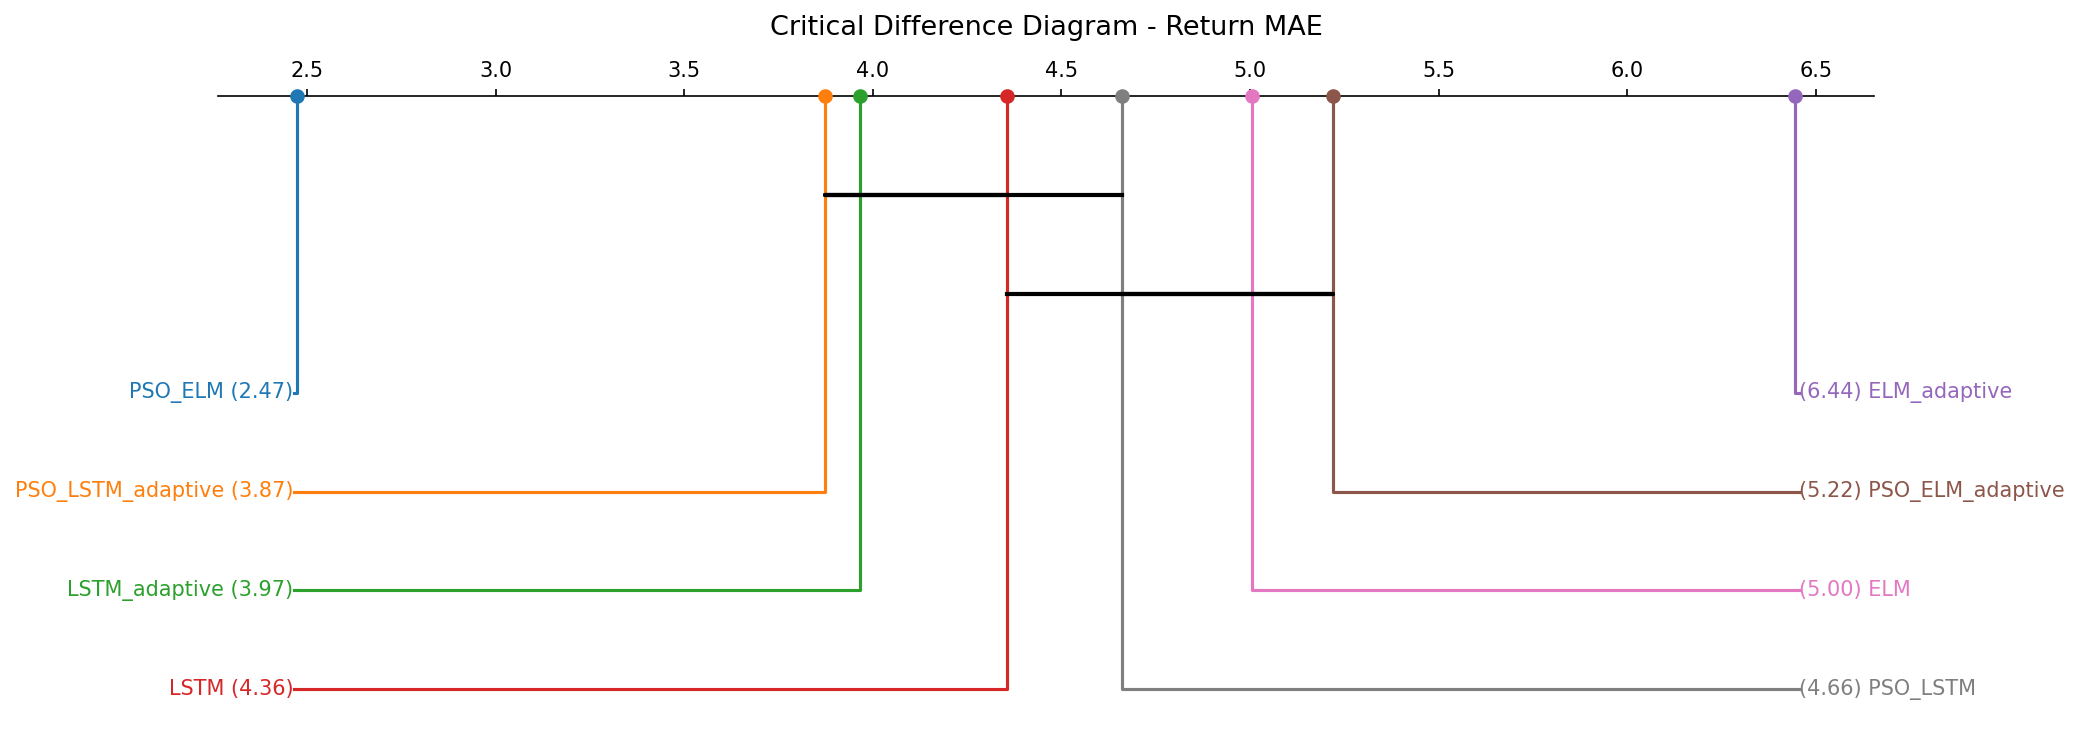
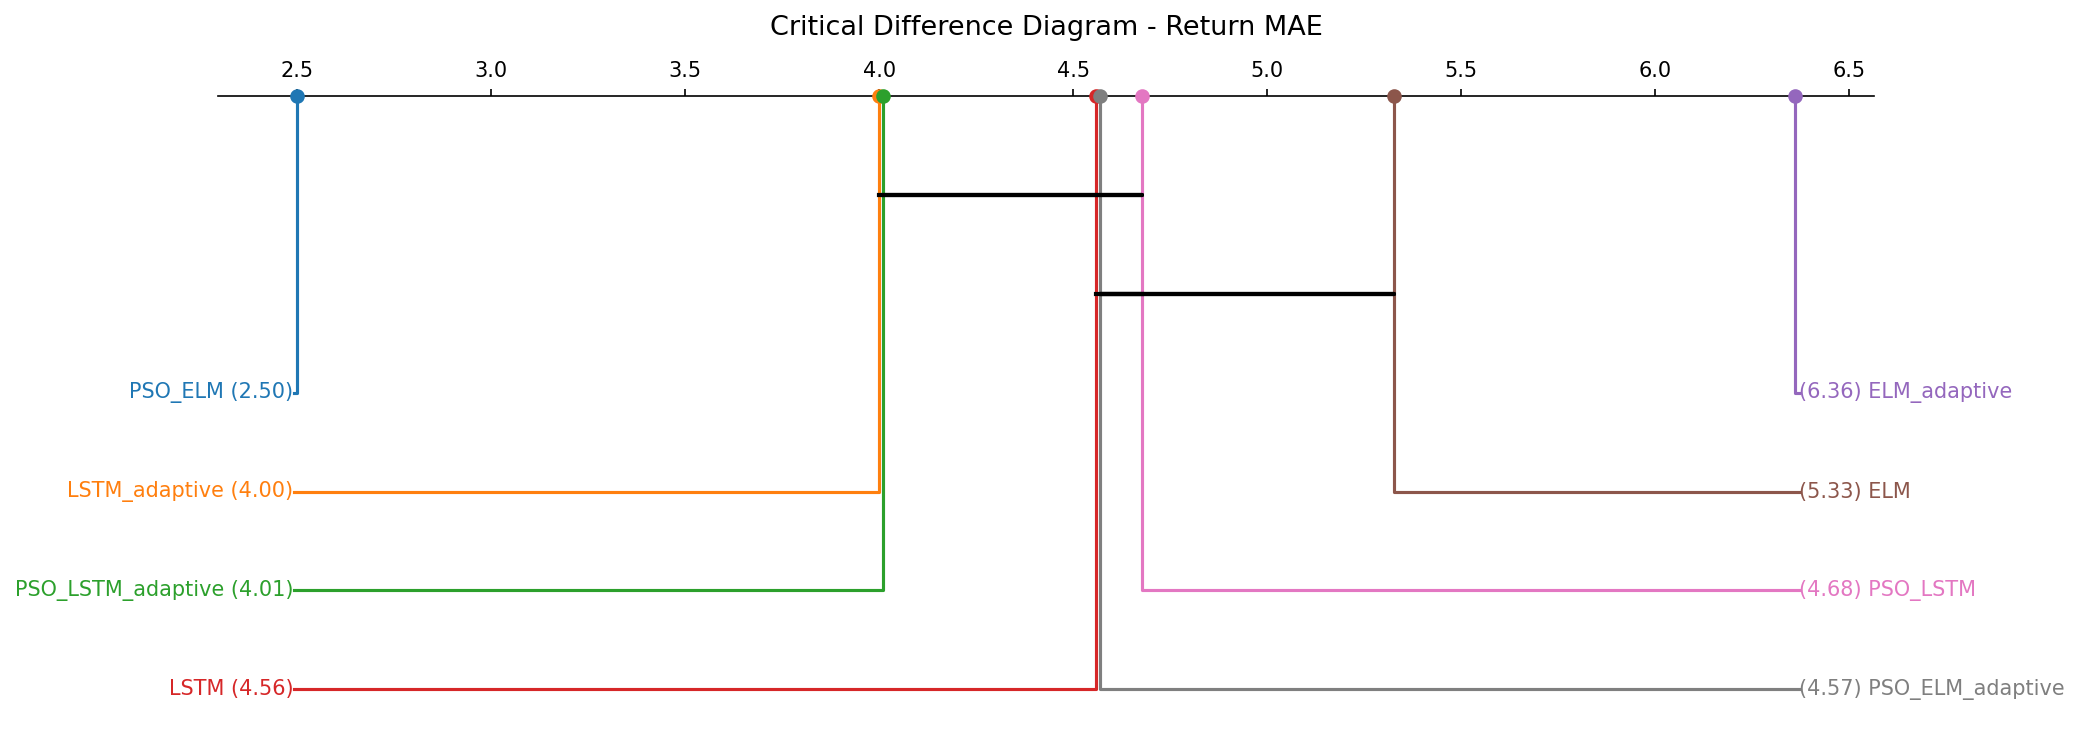
add no drift loop rq3 on online_eval.py

diff --git a/backend/src/training/online_eval.py b/backend/src/training/online_eval.py
@@ -431,6 +431,121 @@ def online_evaluation_loop_adaptive(
     }
 
 
+def online_evaluation_loop_no_detector(
+    model, 
+    model_type: str,
+    test_series: np.ndarray,
+    window_size: int,
+    retrain_window: int,
+    retrain_interval: int = 200, # retrain every N steps regardless of drift detection
+) -> dict:
+    """RQ3 abilation: trail based adaptive loop with no drift detector. Rretrains are triggered at t fixed periodic interval instead of on detected drift."""
+    n_test = len(test_series) # used as loop bound 
+    predictions:list[float] = [] # store the predicted values at each step 
+    actuals:list[float] = [] # store the actual values at each step 
+    retrain_times:list[float] = [] # store how long each retrain took in second. Used to compute total and average retrain time at the end
+
+    # store which model version(label) is active at each step to used for plot_pool activity at the end
+    active_model_history:list[str] = []
+    # store "promoted " or "held" for each trial that completed. Used for metrics and plotting 
+    trial_verdicts:list[str] = []
+    # store how many times the current model was replaced by a challenger. A metric logged to CSV
+    model_switches = 0
+    # Count down after a trail resolves. While above 0, drift detection is skipped
+    steps_since_retrain = 0 
+    # slidding buffer : accumulates recent observations for retraining 
+    buffer: list[float] = []
+    # Creates the model pool with the initial model as current (labelled v0)
+    pool = ModelPool(model, model_type)
+    # Tracks the previous model label so we can detect when a switch happens by comparing to pool.current_label each step.
+    prev_label = pool.current_label
+    
+    print(f"Starting RQ3 no detector loop | Steps = {n_test - window_size} | model = {model_type} | Retrain interval = {retrain_interval}\n")
+    for t in range(window_size, n_test):
+        input_window = test_series[t-window_size:t]
+        actual_value = test_series[t]  
+        
+        # predict with current (challengers also predict silently inside)
+        pred = pool.predict(input_window, window_size)
+        
+        
+        # Track model switches 
+        if pool.current_label != prev_label:
+            model_switches += 1
+            print(f"[Step {t - window_size}] Model promoted: {prev_label} -> {pool.current_label}")
+            prev_label = pool.current_label
+            
+        predictions.append(pred)
+        actuals.append(actual_value)
+        buffer.append(actual_value)
+        active_model_history.append(pool.current_label)
+        
+        # Update rolling error for current and all challenger 
+        pool.update_errors(pred, actual_value)
+        
+        # Resolve trail after Trails steps - reset step counter 
+        if pool.in_trial and pool.trial_step >= TRIAL_STEPS:
+            verdict = pool.resolve_trial()
+            trial_verdicts.append(verdict)
+            steps_since_retrain = 0 
+            continue
+        
+        # skip periodic trigger whila a trail is stil running 
+        if pool.in_trial:
+            continue
+        
+        # periodic retrain trigger 
+        steps_since_retrain += 1
+        if steps_since_retrain < retrain_interval:
+            continue
+        
+        # Interval reached: retrain adn reset counter 
+        steps_since_retrain = 0
+        retrain_data = np.array(buffer[-retrain_window:]) if len(buffer) >= retrain_window else np.array(buffer)
+        
+        if len(retrain_data) >= retrain_window:
+            new_model = copy.deepcopy(pool.current.model)
+            start = time.time()
+            _retrain_model(new_model, pool.current.model_type, retrain_data, window_size)
+            elapsed = time.time() - start
+            retrain_times.append(elapsed)
+            
+            new_label = pool.add_challenger(new_model, pool.current.model_type)
+            print(f"[Step {t - window_size}] Periodic retrain: Challenger {new_label} added to pool. Retrain time: {elapsed:.2f}s. | Trial started for {TRIAL_STEPS} steps.")
+        else:
+            raise ValueError(f"Not enough data to retrain (have {len(retrain_data)}, need at least {retrain_window}). Consider reducing retrain_window or waiting for more data to accumulate.")  
+        
+    # Post loop evlaution 
+    predictions = np.array(predictions)
+    actuals = np.array(actuals)
+    
+    metrics = evaluate_returns(actuals, predictions)    
+    metrics["num_drifts_detected"] = 0 # no detector, so no drifts detected
+    metrics["total_retrain_time"] = sum(retrain_times)
+    metrics["average_retrain_time"] = float(np.mean(retrain_times)) if retrain_times else 0.0
+    metrics["model_switches"] = model_switches
+    metrics["trial_verdicts"] = trial_verdicts
+    metrics["trials_promoted"] = trial_verdicts.count("promoted")
+    metrics["trials_held"] = trial_verdicts.count("held")
+    metrics["final_model"] = pool.current_label
+    metrics["num_retrains"] = pool._retrain_counter
+    
+    print(f"\n  MAE: {metrics['Return_MAE']:.6f}")
+    return {
+        "predictions": predictions,
+        "actuals": actuals, 
+        "metrics": metrics,
+        "drift_detected_points": [],
+        "retrain_times": retrain_times,
+        "active_model_history": active_model_history,
+        "trial_verdicts": trial_verdicts
+    }    
+        
+        
+        
+        
+        
+
 # Building retrain data from sliding buffer 
 def build_retrain_windows(
     buffer: np.ndarray,

diff --git a/backend/src/utils/statistical_tests.py b/backend/src/utils/statistical_tests.py
@@ -136,6 +136,50 @@ def load_real_data() -> pd.DataFrame:
 
     return df
 
+def print_descriptive_statistics_synthetic() -> None:
+    """
+    Load RQ2 Phase 2 synthetic results and print descriptive statistics
+    (mean ± std) for detection and retraining metrics grouped by drift type.
+    Excludes RQ1 static baseline models (no retrain_time logged).
+    """
+    df = pd.read_csv(RESULTS_FILE_RQ2_PHASE2_SYNTHETIC)
+    print(f"\nLoaded RQ2 Phase 2 synthetic results: {len(df)} rows")
+
+    # Extract drift type by stripping trailing series number
+    df["drift_type"] = df["dataset"].apply(extract_drift_type)
+
+    # Keep only adaptive models — static baselines have no total_retrain_time
+    df = df[df["total_retrain_time"].notna() & (df["total_retrain_time"] > 0)]
+    print(f"After filtering static models: {len(df)} rows")
+    print(f"Models remaining: {df['model'].unique().tolist()}\n")
+
+    metrics = [
+        "detect_avg_detection_delay",
+        "total_retrain_time",
+        "num_drifts_detected",
+        "detect_true_positives",
+        "detect_false_positives",
+    ]
+
+    # Keep only columns that actually exist in the CSV
+    metrics = [m for m in metrics if m in df.columns]
+    if not metrics:
+        print("No matching metric columns found in CSV.")
+        return
+
+    frames = []
+    for metric in metrics:
+        agg = df.groupby(["drift_type", "model"])[metric].agg(
+            mean="mean", std="std"
+        )
+        agg.columns = pd.MultiIndex.from_tuples(
+            [(metric, c) for c in agg.columns]
+        )
+        frames.append(agg)
+
+    combined = pd.concat(frames, axis=1).round(4)
+    print("Synthetic Descriptive Statistics — Detection & Retraining (mean ± std):")
+    print(combined.to_string())
 
 # desriptive statistics 
 def print_descriptive_statistics(df: pd.DataFrame, metric: str) -> None:
@@ -353,19 +397,19 @@ def main():
     print("####################################################################")
     print("Statistical Test Analysis for RQ1 and RQ2 Combined")
     print("####################################################################\n")
-    
-    # # Load and normalise results 
+    # print_descriptive_statistics_synthetic()
+    # Load and normalise results 
     df = load_synthetic_results()
     
     # Analysis 1: Return MAE
-    # run_friedman_analysis(df, METRIC_MAE, "Critical Difference Diagram - Return MAE")
+    run_friedman_analysis(df, METRIC_MAE, "Critical Difference Diagram - Return MAE")
     
-    # # analysis 2: Total Retrain Time
-    # run_friedman_analysis(df, METRIC_TIME, diagram_title = "Critical Difference Diagram - Total Retrain Time (seconds)")
+    # analysis 2: Total Retrain Time
+    run_friedman_analysis(df, METRIC_TIME, diagram_title = "Critical Difference Diagram - Total Retrain Time (seconds)")
     
     # run real world result analysis
     real_df = load_real_data()
-    run_real_analysis(real_df)
+    # run_real_analysis(real_df)
     
     print("\n#####################################################################")
     print("  ANALYSIS COMPLETE")

diff --git a/backend/src/utils/paths.py b/backend/src/utils/paths.py
@@ -10,4 +10,6 @@ RESULTS_FILE_RQ1 = RESULTS_DIR / "rq1_results.csv"
 RESULTS_FILE_RQ2_PHASE1 = RESULTS_DIR / "rq2_phase1_results.csv"
 RESULTS_FILE_RQ2_PHASE2_SYNTHETIC = RESULTS_DIR / "rq2_phase2_synthetic_results.csv"
 RESULTS_FILE_RQ2_PHASE2_REAL = RESULTS_DIR / "rq2_phase2_real_results.csv"
+RESULTS_FILE_RQ3_SYNTHETIC = RESULTS_DIR / "rq3_synthetic_results.csv"
+RESULTS_FILE_RQ3_REAL = RESULTS_DIR / "rq3_real_results.csv"
 TEST2 = RESULTS_DIR / "test2.csv"
